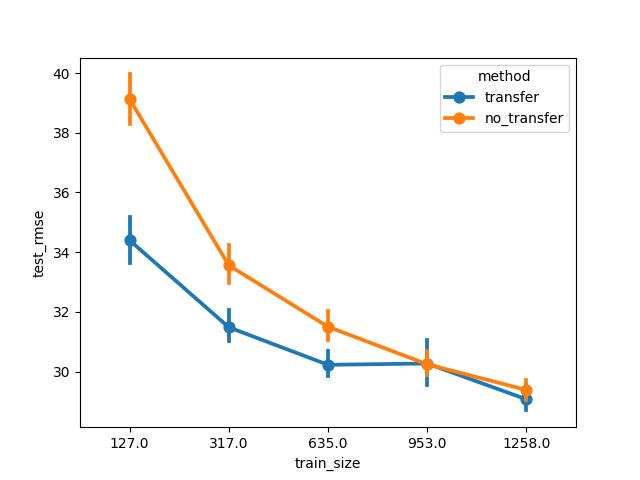
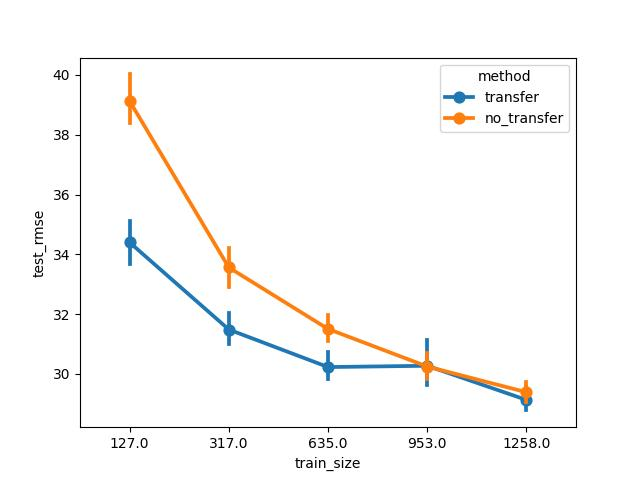
only Dgv-Norr left!

diff --git a/boosting/final_viz.py b/boosting/final_viz.py
@@ -9,7 +9,7 @@ import os
 
 VIZ_FOLDER = 'viz\optimal_viz'
 RES_FOLDER = 'res\optimal_res'
-TARGET_DATA = 'Lettland'
+TARGET_DATA = 'Norrland'
 RESPONSE_VARIABLE = 'Hgv'
 
 def combine_datasets(TARGET_DATA, RESPONSE_VARIABLE):
